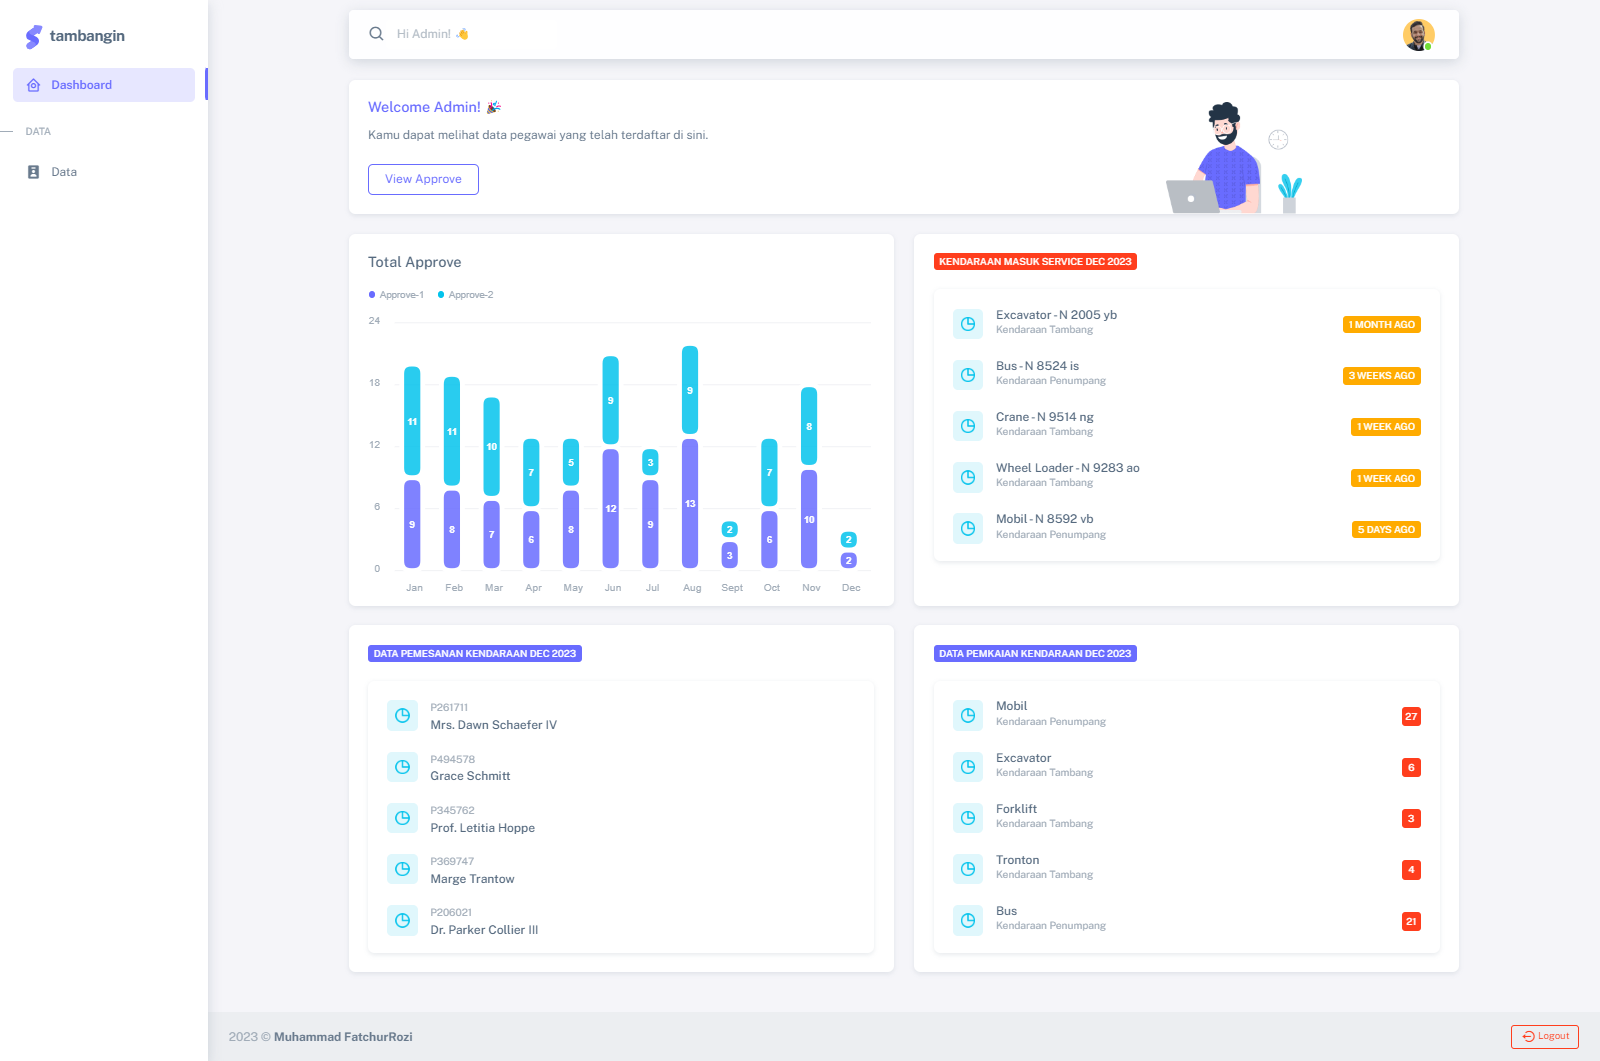
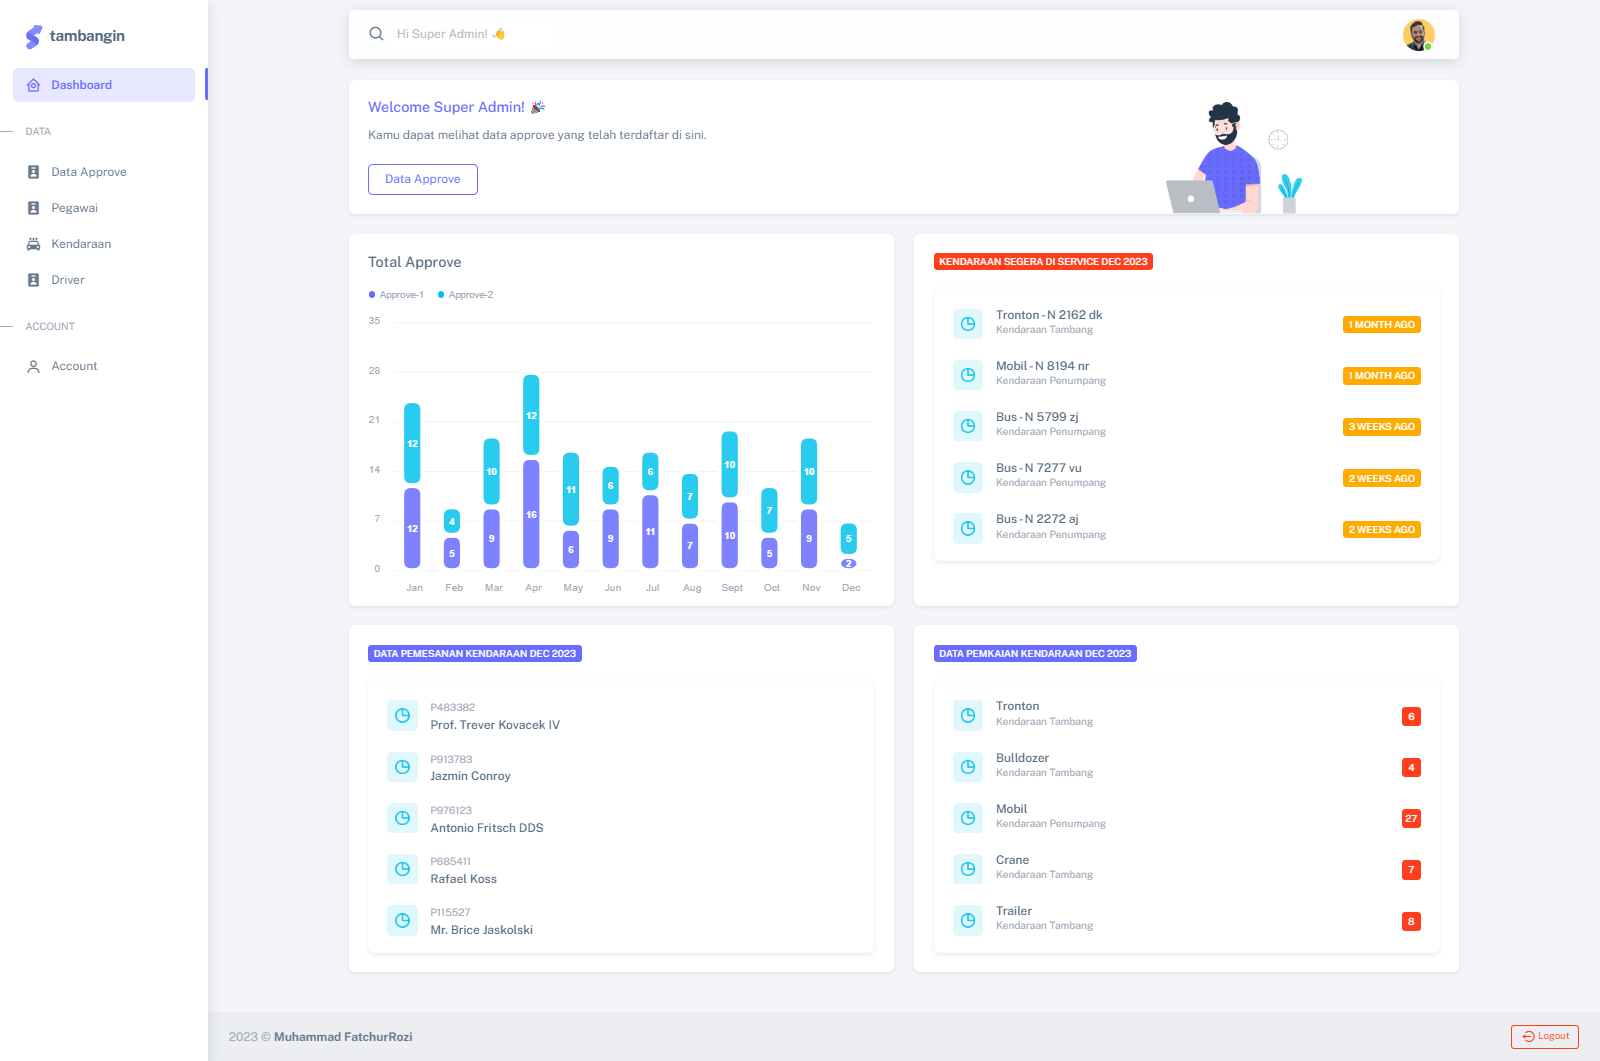
fix

diff --git a/database/seeders/Account/accountSeeder.php b/database/seeders/Account/accountSeeder.php
@@ -18,9 +18,10 @@ class accountSeeder extends Seeder
     {
         account::create([
             'id' => Str::uuid(),
-            'name' => 'Dev',
+            'name' => 'Developer',
             'email' => 'dev@dev.com',
             'password' => bcrypt('dev12345'),
+            'role' => 1,
         ]);
 
         account::create([
@@ -28,6 +29,7 @@ class accountSeeder extends Seeder
             'name' => 'Admin',
             'email' => 'admin@gmail.com',
             'password' => bcrypt('12345678'),
+            'role' => 2,
         ]);
 
         account::create([
@@ -35,6 +37,7 @@ class accountSeeder extends Seeder
             'name' => 'Kepala-Kantor',
             'email' => 'kepalaKantor@gmail.com',
             'password' => bcrypt('12345678'),
+            'role' => 3,
         ]);
 
         account::create([
@@ -42,6 +45,7 @@ class accountSeeder extends Seeder
             'name' => 'Pool',
             'email' => 'pool@gmail.com',
             'password' => bcrypt('12345678'),
+            'role' => 4,
         ]);
 
         account::create([
@@ -49,6 +53,7 @@ class accountSeeder extends Seeder
             'name' => 'Service',
             'email' => 'service@gmail.com',
             'password' => bcrypt('12345678'),
+            'role' => 5,
         ]);
     }
 }

diff --git a/resources/views/components/Dashboard.blade.php b/resources/views/components/Dashboard.blade.php
@@ -53,7 +53,7 @@
             <div class="col-md-6 col-lg-8 order-2 mb-4">
                 <div class="card h-100">
                     <div class="card-header d-flex align-items-center justify-content-between">
-                        <span class="badge bg-danger">Kendaraan Masuk Service {{ date('M Y') }}</span>
+                        <span class="badge bg-danger">Kendaraan Segera Di Service {{ date('M Y') }}</span>
                     </div>
                     <div class="card-body">
                         <ul class="p-0 m-0">
